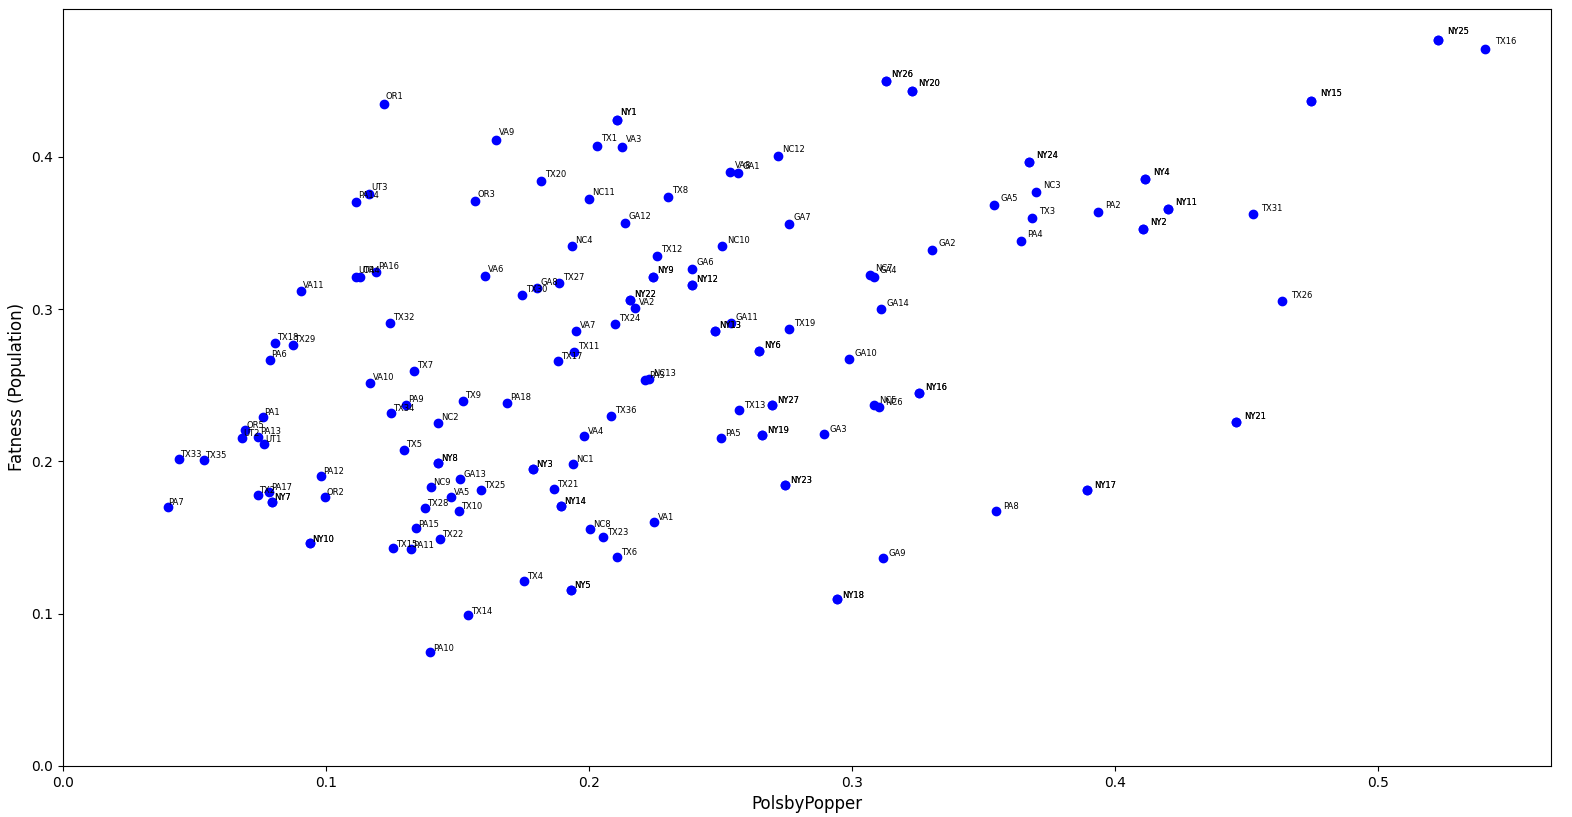
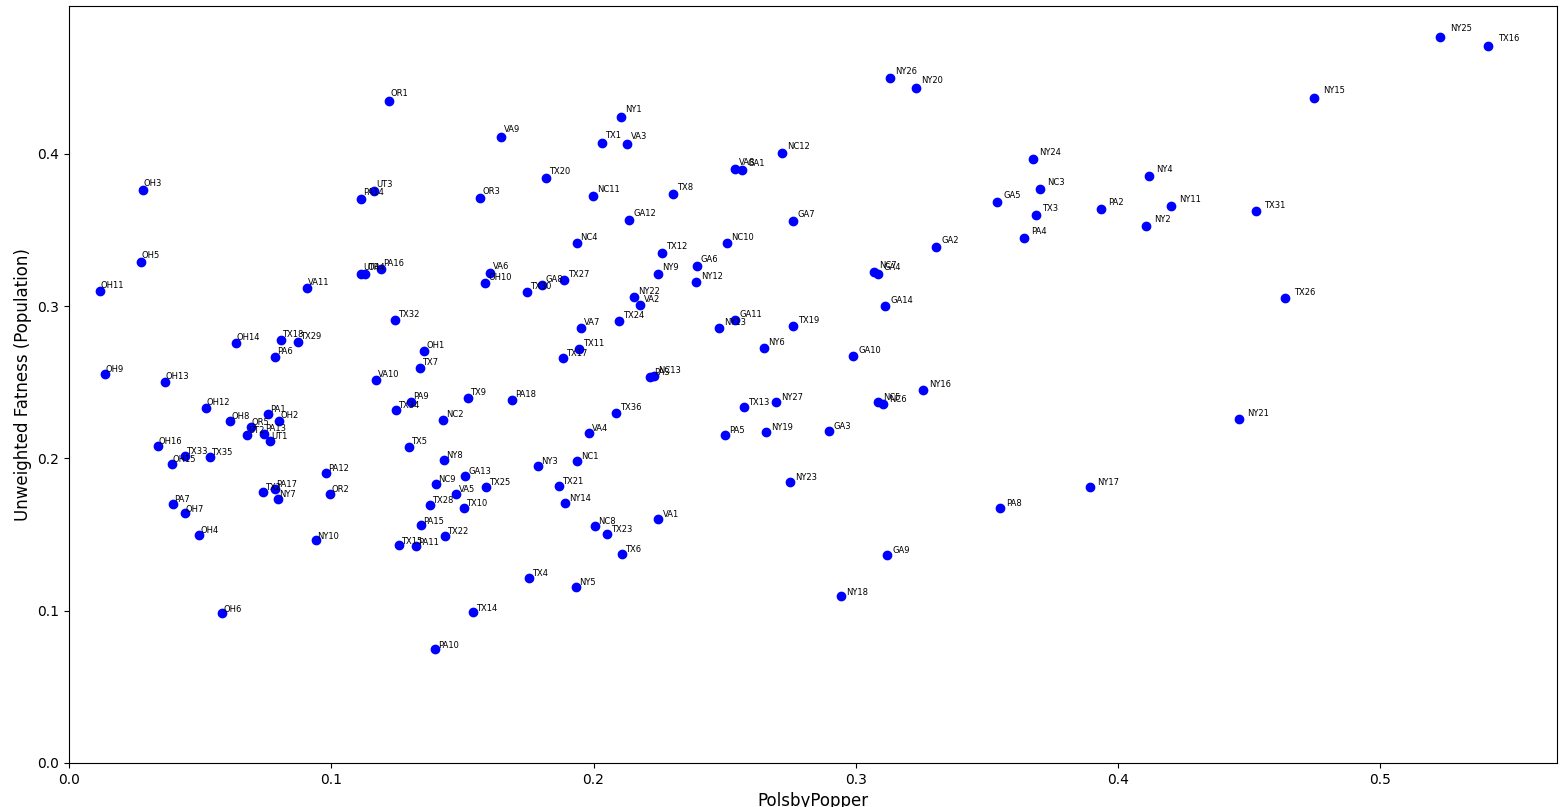
restructure

diff --git a/code/fatnessVpolbyPopper.py b/code/fatnessVpolbyPopper.py
@@ -32,10 +32,10 @@ for i in range(len(stateDistrictID)):
     x = polsbyPopper[i]
     y = fatness1[i]
     z = fatness2[i]
-    plt.plot(x, w, 'bo')
-    plt.text(x * (1 + 0.007), w * (1 + 0.007) , stateDistrictID[i], fontsize=6)
+    plt.plot(x, z, 'bo')
+    plt.text(x * (1 + 0.007), z * (1 + 0.007) , stateDistrictID[i], fontsize=6)
 
-plt.ylim(ymin=0)  # this line
+plt.ylim(ymin=0)
 plt.xlim(0)
 plt.xlabel('PolsbyPopper', fontsize=12)
 plt.ylabel('Weighted Fatness (Population)', fontsize=12)
